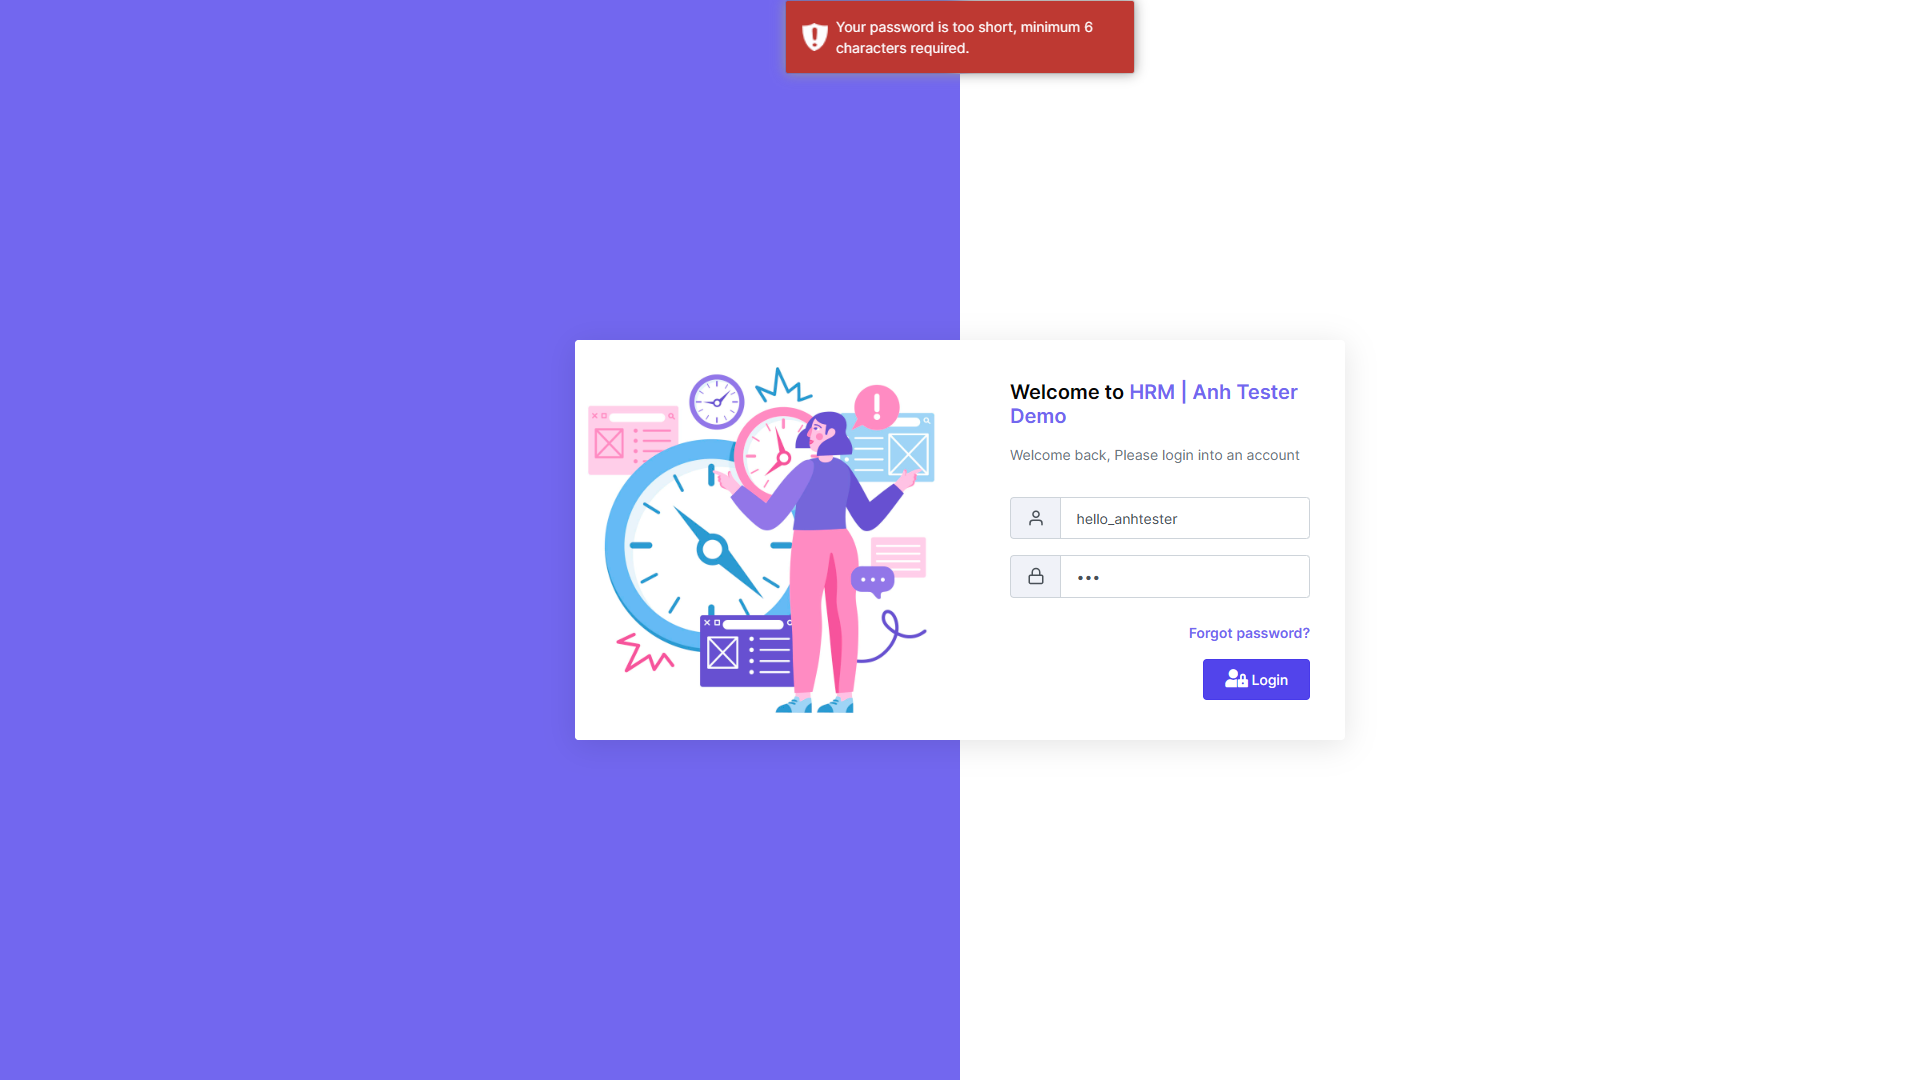
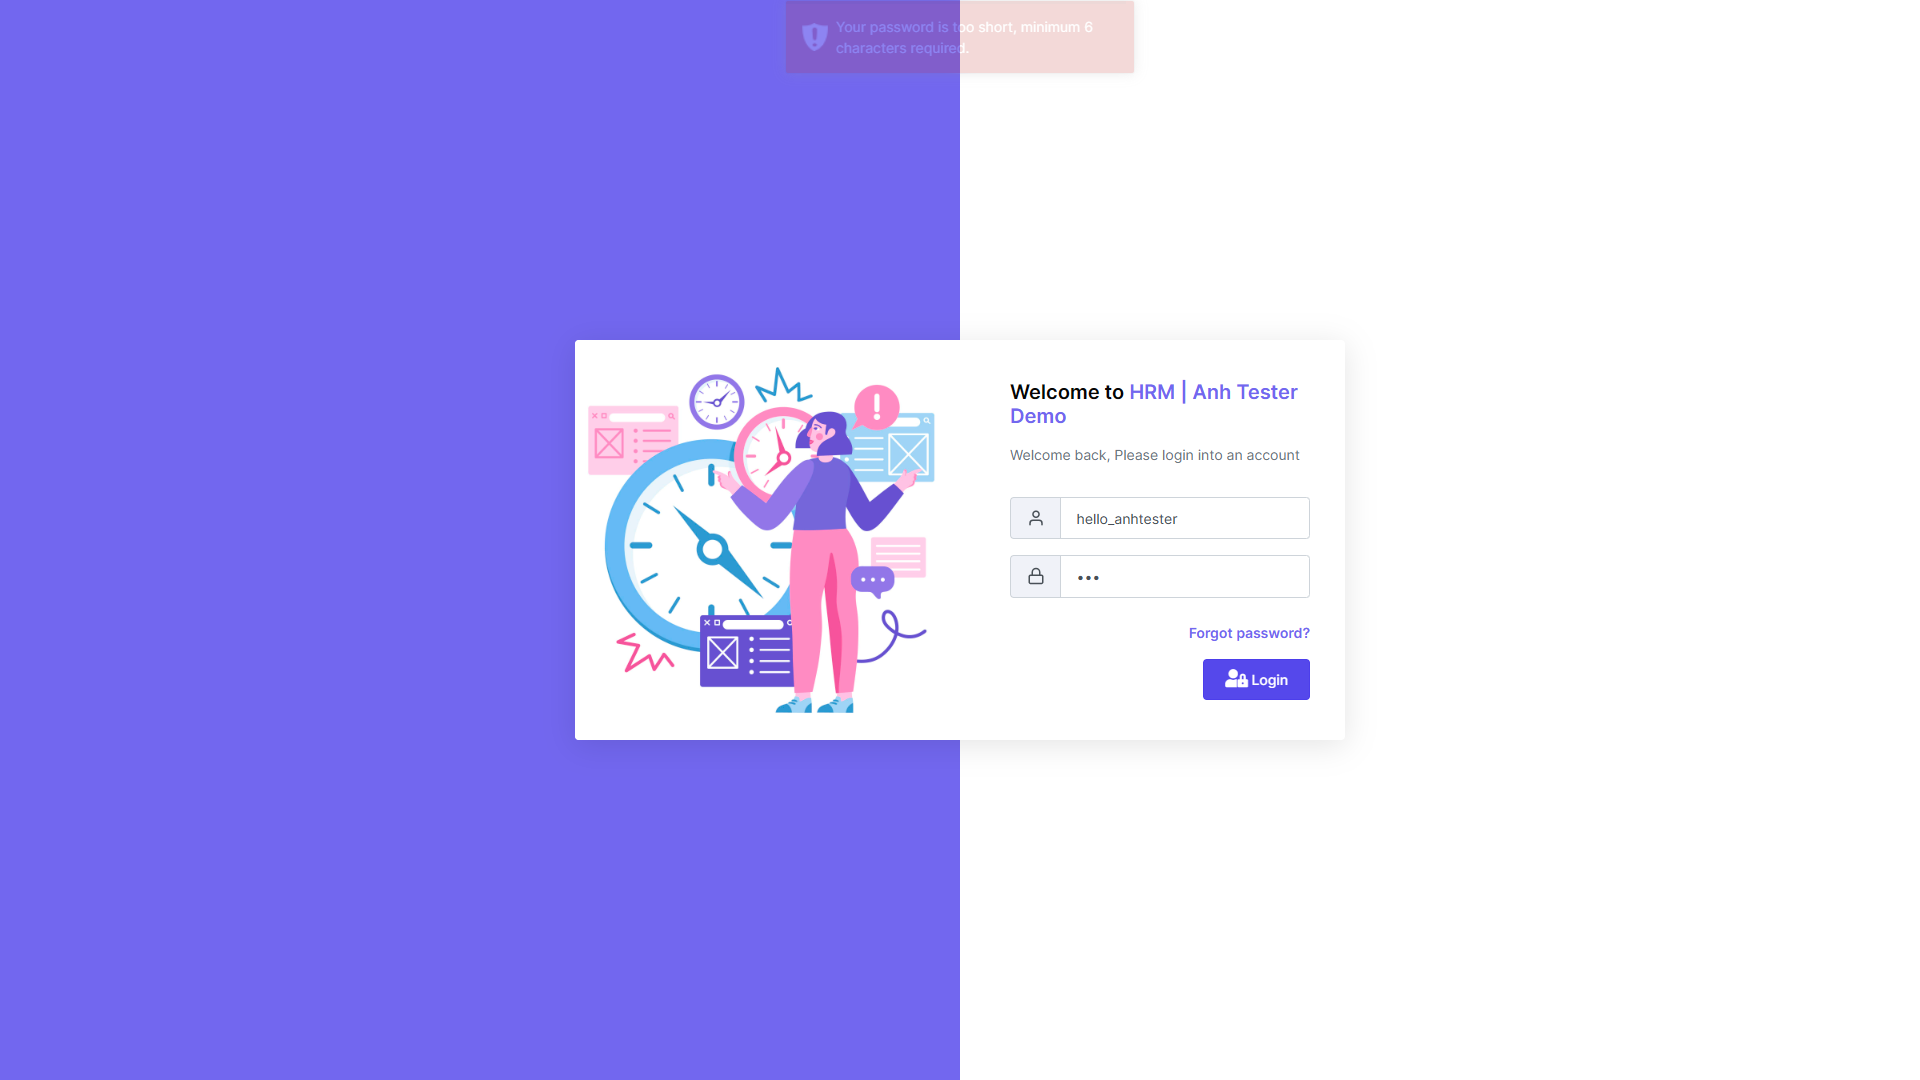
hoan thanh btvn

Changed region(s): [[0.4062, 0.0, 0.5938, 0.0917]]

diff --git a/hai-chuot/homework/BT_Bai6/tests/home/test_home_page.py b/hai-chuot/homework/BT_Bai6/tests/home/test_home_page.py
@@ -1,0 +1,71 @@
+import pytest
+from components.header_component import XpathHeader
+
+@pytest.mark.usefixtures("login_pass_page")
+class TestHomePage:
+    def test_click_header(self):
+        lst_xpath_header_enum = [
+            XpathHeader.ACCOUNT_SETTING,
+            XpathHeader.SYSTEM_CALENDAR,
+            XpathHeader.SYSTEM_REPORT,
+            XpathHeader.TODO_LIST
+        ]
+
+        for i, xpath_header_enum in enumerate(lst_xpath_header_enum, start=1):
+            self.home_page.click_header_function(xpath_header_enum)
+            self.home_page._take_screenshot(f'header/header_function_{i}.png')
+
+    def test_click_apps_icon(self):
+        lst_apps_items = [
+            "Events",
+            "Holidays",
+            "Visitor Book",
+            "Conference Booking",
+            "Documents Manager",
+            "Assets",
+            "Awards",
+            "Transfers",
+            "Complaints",
+            "Resignations",
+            "Custom Fields"
+        ]
+
+        for i, apps_items in enumerate(lst_apps_items, start=1):
+            self.home_page.click_apps_header_function(XpathHeader.APPS, apps_items)
+            self.home_page._take_screenshot(f'apps_menu/apps_subfunction_{i}.png')
+
+    def test_click_single_header(self):
+        lst_menu_items = [
+            "Home",
+            "Attendance",
+            "Projects",
+            "Tasks",
+            "Payroll",
+            "Helpdesk",
+            "Training Sessions",
+            "Employees",
+            "Recruitment (ATS)",
+            "Finance",
+            "Manage Clients",
+            "Leads",
+            "Invoices",
+            "Estimates",
+            "Disciplinary Cases"
+        ]
+
+        for i, menu_item in enumerate(lst_menu_items, start=1):
+            self.home_page.click_menu_function(menu_item)
+            self.home_page._take_screenshot(f'single_menu/menu_{i}.png')
+
+    def test_click_corehr_menu(self):
+        lst_menu_hr = [
+            "Department",
+            "Designation",
+            "Policies",
+            "Make Announcement",
+            "Organization Chart"
+        ]
+
+        for i, menu_hr in enumerate(lst_menu_hr, start=1):
+            self.home_page.click_sub_menu_function("Core HR" , menu_hr)
+            self.home_page._take_screenshot(f'corehr_menu/menu_{i}.png')

diff --git a/hai-chuot/homework/BT_Bai6/tests/conftest.py b/hai-chuot/homework/BT_Bai6/tests/conftest.py
@@ -1,0 +1,59 @@
+import pytest
+from playwright.sync_api import BrowserContext
+from page.login_page import LoginPage
+from page.home_page import HomePage
+from utils.data_reader import DataReader
+
+@pytest.fixture(scope="class")
+def get_data_login(request):    
+
+    user_data = DataReader.read_json_data("login_account.json")
+    lst_valid = user_data["valid_user"]
+    lst_invalid = user_data["invalid_user"]
+    
+    request.cls.lst_valid = lst_valid
+    request.cls.lst_invalid = lst_invalid
+    
+    yield
+
+@pytest.fixture(scope="class")
+def login_pass_page(request, open_browser): 
+    context = open_browser.new_context(viewport={"width": 1920, "height": 1080})
+    user_data = DataReader.read_json_data("login_account.json")
+    lst_valid = user_data["valid_user"]
+
+    user_info = lst_valid[0]
+    username = user_info["username"]
+    password = user_info["password"]
+
+    login_page = create_login_page(context)
+    
+    login_page.login(username, password)
+    login_page.verify_login_pass(username)
+
+    home_page = HomePage(login_page.get_page)
+
+    request.cls.home_page = home_page
+    
+    yield
+
+@pytest.fixture(scope="function")
+def initialize_test_script(open_browser):
+    URL = "https://hrm.anhtester.com/erp/login"
+    context = open_browser.new_context(viewport={"width": 1920, "height": 1080})
+    page = context.new_page()
+
+    login_page = create_login_page(context)
+
+    yield login_page
+
+    page.close()
+    context.close()
+
+def create_login_page(context : BrowserContext):
+    URL = "https://hrm.anhtester.com/erp/login"
+    page = context.new_page()
+
+    login_page = LoginPage(page, URL)
+    
+    return login_page

diff --git a/hai-chuot/homework/BT_Bai6/tests/login/test_login.py b/hai-chuot/homework/BT_Bai6/tests/login/test_login.py
@@ -18,3 +18,27 @@ class TestLoginPage:
             
             initialize_test_script.login(username, password)
             initialize_test_script.verify_login_fail()
+            initialize_test_script._take_screenshot('login_fail.png')
+            print(initialize_test_script.get_message_error)
+
+    def test_logout_from_header(self, initialize_test_script):
+        user_info = self.lst_valid[0]
+        username = user_info["username"]
+        password = user_info["password"]
+            
+        initialize_test_script.login(username, password)
+        initialize_test_script.verify_login_pass(username)
+        
+        initialize_test_script.logout_from_header()
+        initialize_test_script._take_screenshot('logout_from_header_successfully.png')
+
+    def test_logout_by_button(self, initialize_test_script):
+        user_info = self.lst_valid[0]
+        username = user_info["username"]
+        password = user_info["password"]
+            
+        initialize_test_script.login(username, password)
+        initialize_test_script.verify_login_pass(username)
+        
+        initialize_test_script.logout_by_button()
+        initialize_test_script._take_screenshot('logout_by_button_successfully.png')

diff --git a/hai-chuot/homework/BT_Bai6/page/login_page.py b/hai-chuot/homework/BT_Bai6/page/login_page.py
@@ -1,8 +1,5 @@
-import time
-
-import pytest
 from playwright.sync_api import Page, expect
-
+from components.header_component import HeaderComponent, XpathHeader
 from core.base_page import BasePage
 
 class LoginPage(BasePage):
@@ -20,6 +17,11 @@ class LoginPage(BasePage):
     def get_message_error(self):
         """Getter"""
         return self.__message_error
+    
+    @property
+    def get_page(self):
+        """Getter"""
+        return self.page
 
     def login(self, username : str, password : str):
         self._goToURL(self.base_url)
@@ -46,3 +48,13 @@ class LoginPage(BasePage):
 
         error_message_element = self.page.locator('//div[contains(@class,"toast-error")]//div[@class="toast-message"]')
         self.__message_error = error_message_element.inner_text()
+
+    def logout_from_header(self):
+        header = HeaderComponent(self.page)
+        header.click_header(XpathHeader.PROFILE_ACCOUNT, "Logout")
+        self.verify_page_visible()
+
+    def logout_by_button(self):
+        xpath_button_logout = '//a[normalize-space()="Logout" and contains(@class,"btn")]'
+        self._click(xpath_button_logout)
+        self.verify_page_visible()

diff --git a/hai-chuot/homework/BT_Bai6/components/header_component.py b/hai-chuot/homework/BT_Bai6/components/header_component.py
@@ -7,13 +7,14 @@ class XpathHeader(Enum):
     SYSTEM_CALENDAR = '//a[@data-original-title="System Calendar"]'
     SYSTEM_REPORT = '//a[@data-original-title="System Reports"]'
     TODO_LIST = '//a[@data-original-title="Todo List"]'
-    PROFILE_ACCOUNT = '//img[@class="user-avtar"]'
+    PROFILE_ACCOUNT = '//img[@class="user-avtar"]/parent::a'
     APPS = '//span[@data-original-title="Apps"]/parent::a'
 
 class HeaderComponent(BaseComponent):
-    def click_header(self, xpath_header : XpathHeader):
-        self._click(xpath_header)
+    
+    def click_single_header(self, xpath_header : XpathHeader):
+        self._click_single_component(xpath_header.value)
 
     def click_header(self, xpath_header : XpathHeader, label_dropdown_item : str):
         xpath_dropdown_item = f'// div[contains(@class,"dropdown-menu")]//span[normalize-space()="{label_dropdown_item}"]/parent::a'
-        self._click(xpath_header, xpath_dropdown_item)
+        self._click(xpath_header.value, xpath_dropdown_item)

diff --git a/hai-chuot/homework/BT_Bai6/page/home_page.py b/hai-chuot/homework/BT_Bai6/page/home_page.py
@@ -1,0 +1,22 @@
+from playwright.sync_api import Page, expect
+from components.header_component import HeaderComponent, XpathHeader
+from components.menu_component import MenuComponent
+from core.base_page import BasePage
+
+class HomePage(BasePage):
+    def __init__(self, page):
+        super().__init__(page)
+        self.header = HeaderComponent(page)
+        self.menu = MenuComponent(page)
+
+    def click_header_function(self, xpath_header : XpathHeader):
+        self.header.click_single_header(xpath_header)
+    
+    def click_apps_header_function(self, xpath_header : XpathHeader, label_dropdown_item : str):
+        self.header.click_header(xpath_header, label_dropdown_item)
+
+    def click_menu_function(self, label_menu : str):
+        self.menu.click_single_menu(label_menu)
+
+    def click_sub_menu_function(self, label_menu : str, label_sub_menu : str):
+        self.menu.click_menu(label_menu, label_sub_menu)

diff --git a/hai-chuot/homework/BT_Bai6/components/menu_component.py b/hai-chuot/homework/BT_Bai6/components/menu_component.py
@@ -1,11 +1,11 @@
 from core.base_component import BaseComponent
 
 class MenuComponent(BaseComponent):
-    def click_menu(self, label_menu : str):
+    def click_single_menu(self, label_menu : str):
         xpath_menu = f'//span[normalize-space()="{label_menu}"]/parent::a'
-        self._click(xpath_menu)
+        self._click_single_component(xpath_menu)
 
     def click_menu(self, label_menu : str, label_sub_menu : str):
-        xpath_menu = f'a[normalize-space()="{label_menu}"]'
+        xpath_menu = f'//a[normalize-space()="{label_menu}"]'
         xpath_sub_menu = f'{xpath_menu}/following-sibling::ul//a[normalize-space()="{label_sub_menu}"]'
         self._click(xpath_menu, xpath_sub_menu)

diff --git a/hai-chuot/homework/BT_Bai6/core/base_component.py b/hai-chuot/homework/BT_Bai6/core/base_component.py
@@ -1,10 +1,11 @@
+
 from playwright.sync_api import Page, expect
 
 class BaseComponent:
     def __init__(self, page : Page):
         self.page = page
 
-    def _click(self, xpath : str):
+    def _click_single_component(self, xpath : str):
         locator = self.page.locator(xpath)
         locator.click()
 

diff --git a/hai-chuot/homework/BT_Bai6/utils/data_generator.py b/hai-chuot/homework/BT_Bai6/utils/data_generator.py
@@ -1,0 +1,6 @@
+import time
+
+class DataGenerator:
+    def create_input_data_name(prefix : str):
+        timestamp = int(time.time() * 1000)
+        return f"{prefix}_{timestamp}"
